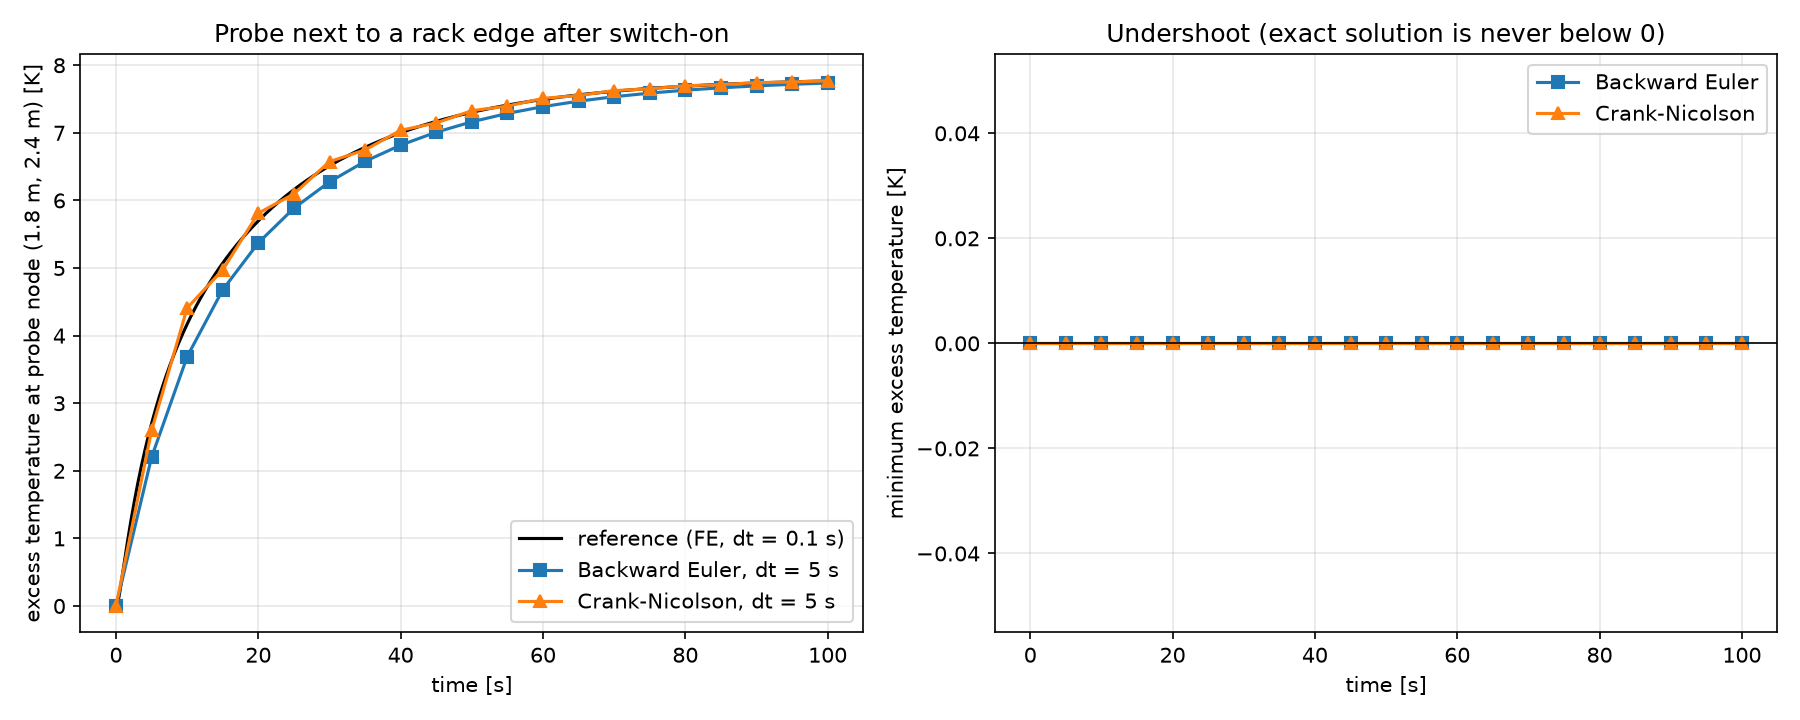
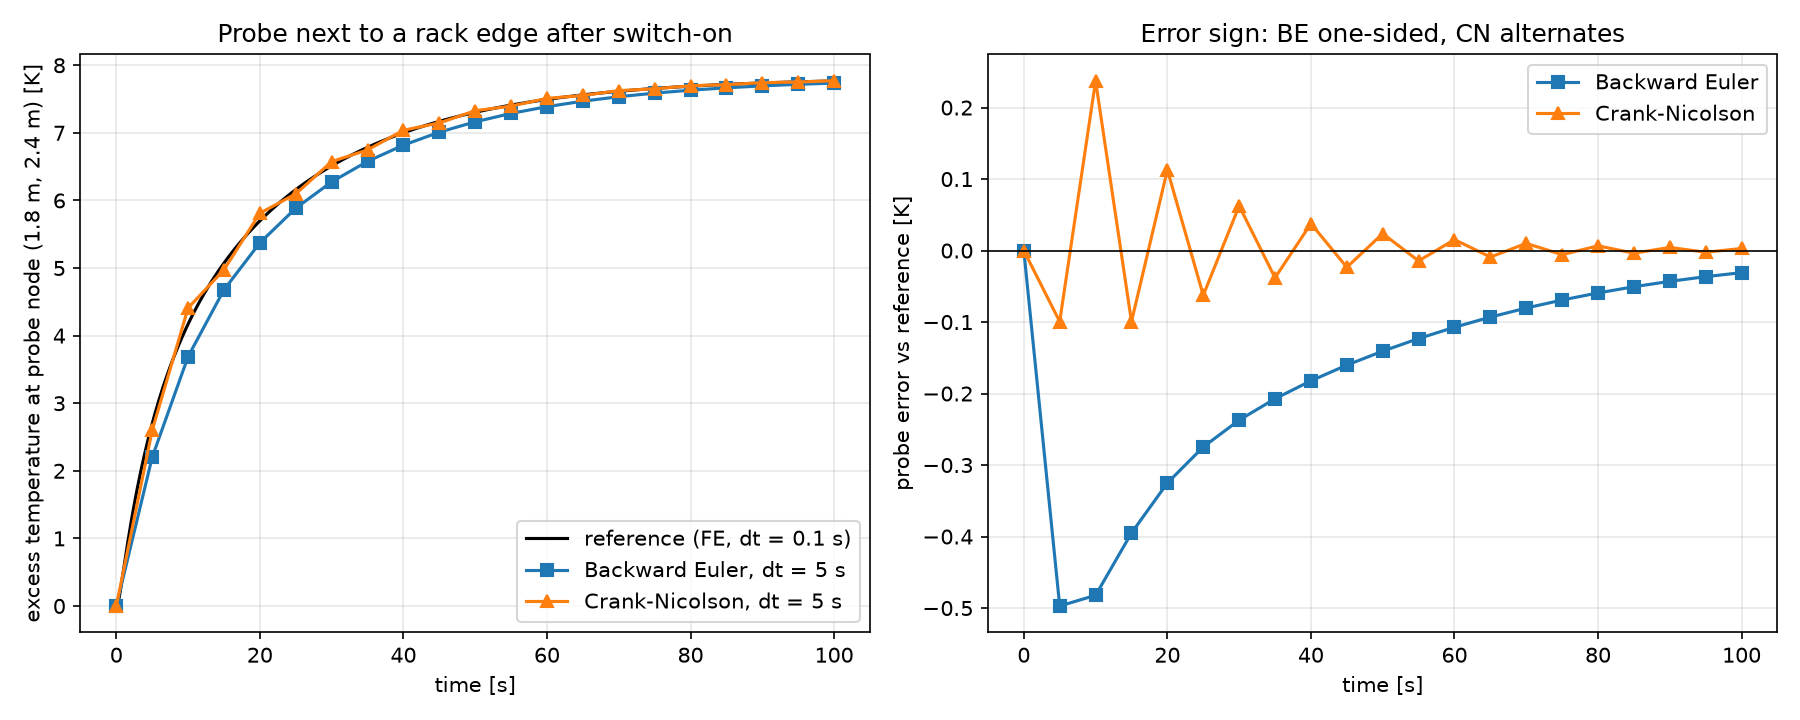
Add BE and CN, experiments 3C, 3D, 5 and burst sweep; fix switch-on error plot

diff --git a/experiments2.py b/experiments2.py
@@ -184,12 +184,13 @@ def exp3c_switch():
     axes[0].set_title("Probe next to a rack edge after switch-on")
     axes[0].legend()
     axes[0].grid(alpha=0.3)
-    axes[1].plot(be["t"], be["min_hist"], "s-", label="Backward Euler")
-    axes[1].plot(cn["t"], cn["min_hist"], "^-", label="Crank-Nicolson")
+    idx = np.round(be["t"] / dt_ref).astype(int)
+    axes[1].plot(be["t"], p_be - p_ref[idx], "s-", label="Backward Euler")
+    axes[1].plot(cn["t"], p_cn - p_ref[idx], "^-", label="Crank-Nicolson")
     axes[1].axhline(0, color="k", lw=0.8)
     axes[1].set_xlabel("time [s]")
-    axes[1].set_ylabel("minimum excess temperature [K]")
-    axes[1].set_title("Undershoot (exact solution is never below 0)")
+    axes[1].set_ylabel("probe error vs reference [K]")
+    axes[1].set_title("Error sign: BE one-sided, CN alternates")
     axes[1].legend()
     axes[1].grid(alpha=0.3)
     fig.tight_layout()
